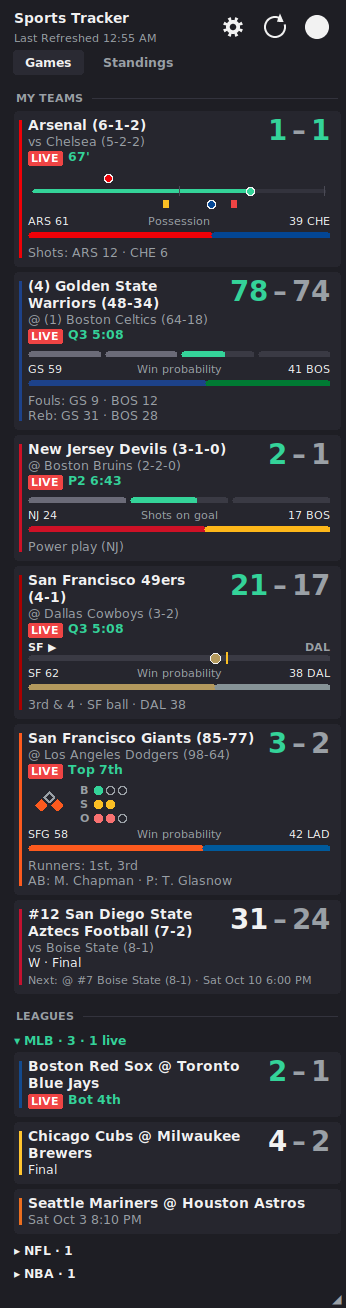
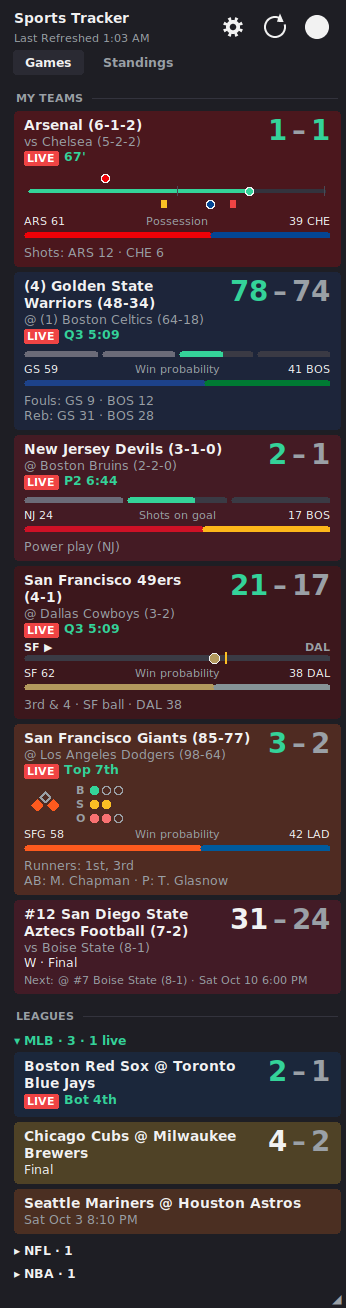
Sports widget: back to full team-color card tint
Restore the original look where each card is tinted with its team color
(no accent stripe). The LIVE badge, rolling scores, running clock, rounded
bars and section headings stay. demo.png updated.

Claude-Session: https://claude.ai/code/session_01PP9hyuFD3TQ3t1ypRnyS6J

diff --git a/sports-widget/sports_widget.py b/sports-widget/sports_widget.py
@@ -1411,7 +1411,7 @@ def run_gui():
     BG, FG, DIM = "#1e1e24", "#f2f2f2", "#9aa0a6"
     COLORS = {"in": "#34d399", "pre": DIM, "post": FG, "none": DIM, "err": "#f87171"}
     PANEL, HOVER = "#2a2a33", "#3a3a46"
-    CARD, TRACK, LIVE_RED = "#26262e", "#3a3a44", "#ef4444"  # card surface, empty-bar track, LIVE badge
+    TRACK, LIVE_RED = "#3a3a44", "#ef4444"  # empty-bar track, LIVE badge
     UI_FONT = ("Segoe UI", 9)
 
     def style_menu(m):
@@ -2156,15 +2156,14 @@ def run_gui():
 
     def draw_card(r, x, y, w, final):
         tint = r.get("tint")
-        bgc = CARD
+        bgc = blend(BG, tint, 0.22) if tint else BG
         cx0, cw_ = x + 2, w - 4
         tags = ()
         if r.get("game") or r.get("url"):
             tags = (new_hit(("game", r)),)
-        bgid = canvas.create_polygon(rr_points(cx0, y, cx0 + cw_, y + 10, 10), smooth=True, fill=bgc, outline=bgc)
+        bgid = canvas.create_polygon(rr_points(cx0, y, cx0 + cw_, y + 10, 10), smooth=True, fill=bgc, outline=bgc) if tint else None
         hit = canvas.create_rectangle(cx0 + 3, y + 3, cx0 + cw_ - 3, y + 10, fill=bgc, outline="", tags=tags) if tags else None
-        accent = canvas.create_line(cx0 + 6, y + 10, cx0 + 6, y + 11, fill=tint, width=3, capstyle="round") if tint else None
-        ix, ww = cx0 + PAD + 4, cw_ - 2 * PAD - 4
+        ix, ww = cx0 + PAD, cw_ - 2 * PAD
         yy = y + GAP
         sc = r.get("score")
         text_w = ww
@@ -2224,11 +2223,10 @@ def run_gui():
             if key in session["anims"]:
                 cover = canvas.create_rectangle(cx0 - 1, yy + GAP, cx0 + cw_ + 1, yy + GAP + 3, fill=BG, outline="")
                 ctx = {"key": key, "kind": "card", "H": H, "y0": y0, "cover": cover, "x0": cx0 - 1, "x1": cx0 + cw_ + 1,
-                       "bg": bgid, "hit": hit, "accent": accent, "geo": (cx0, y, cx0 + cw_), "dy": 0}
+                       "bg": bgid, "hit": hit, "geo": (cx0, y, cx0 + cw_), "dy": 0}
         bottom = yy + GAP
-        canvas.coords(bgid, *rr_points(cx0, y, cx0 + cw_, bottom, 10))
-        if accent:
-            canvas.coords(accent, cx0 + 6, y + 10, cx0 + 6, bottom - 10)
+        if bgid:
+            canvas.coords(bgid, *rr_points(cx0, y, cx0 + cw_, bottom, 10))
         if hit:
             canvas.coords(hit, cx0 + 3, y + 3, cx0 + cw_ - 3, bottom - 3)
         if ctx:
@@ -2472,8 +2470,6 @@ def run_gui():
             cx0, ytop, cx1 = ctx["geo"]
             if ctx["bg"]:
                 canvas.coords(ctx["bg"], *rr_points(cx0, ytop, cx1, ctx["bottom"] + dy, 10))
-            if ctx["accent"]:
-                canvas.coords(ctx["accent"], cx0 + 6, ytop + 10, cx0 + 6, ctx["bottom"] + dy - 10)
             if ctx["hit"]:
                 canvas.coords(ctx["hit"], cx0 + 3, ytop + 3, cx1 - 3, ctx["bottom"] + dy - 3)
         else:
